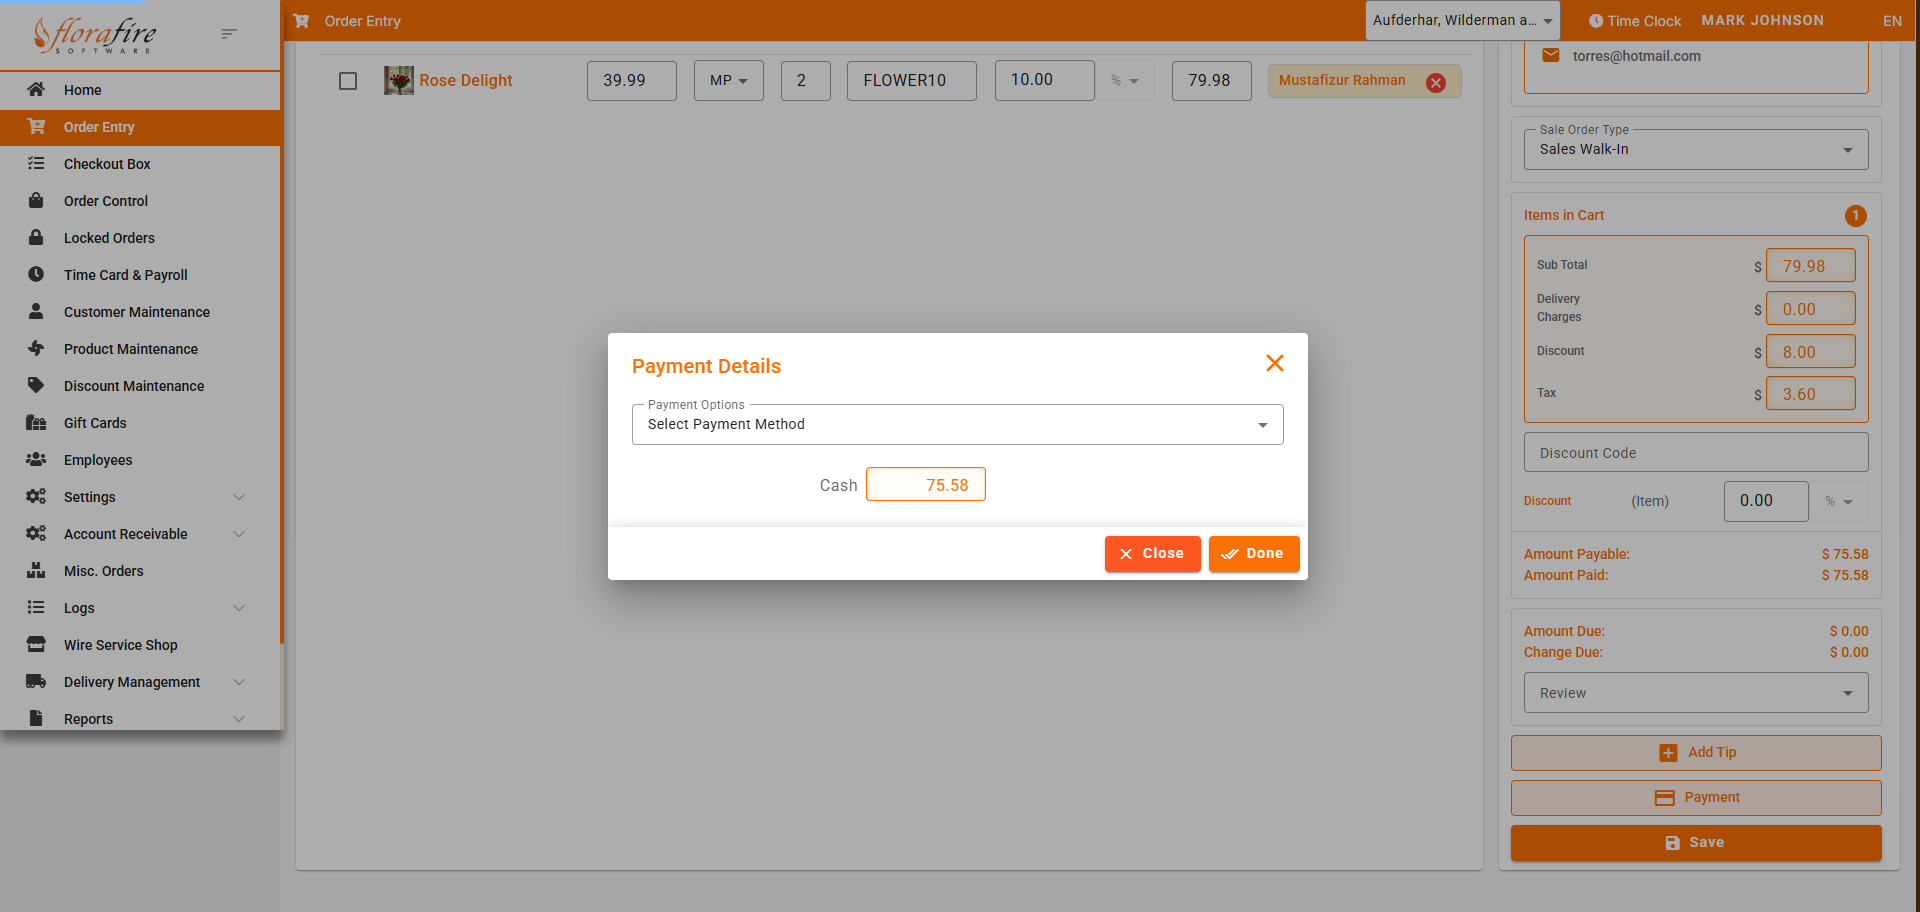
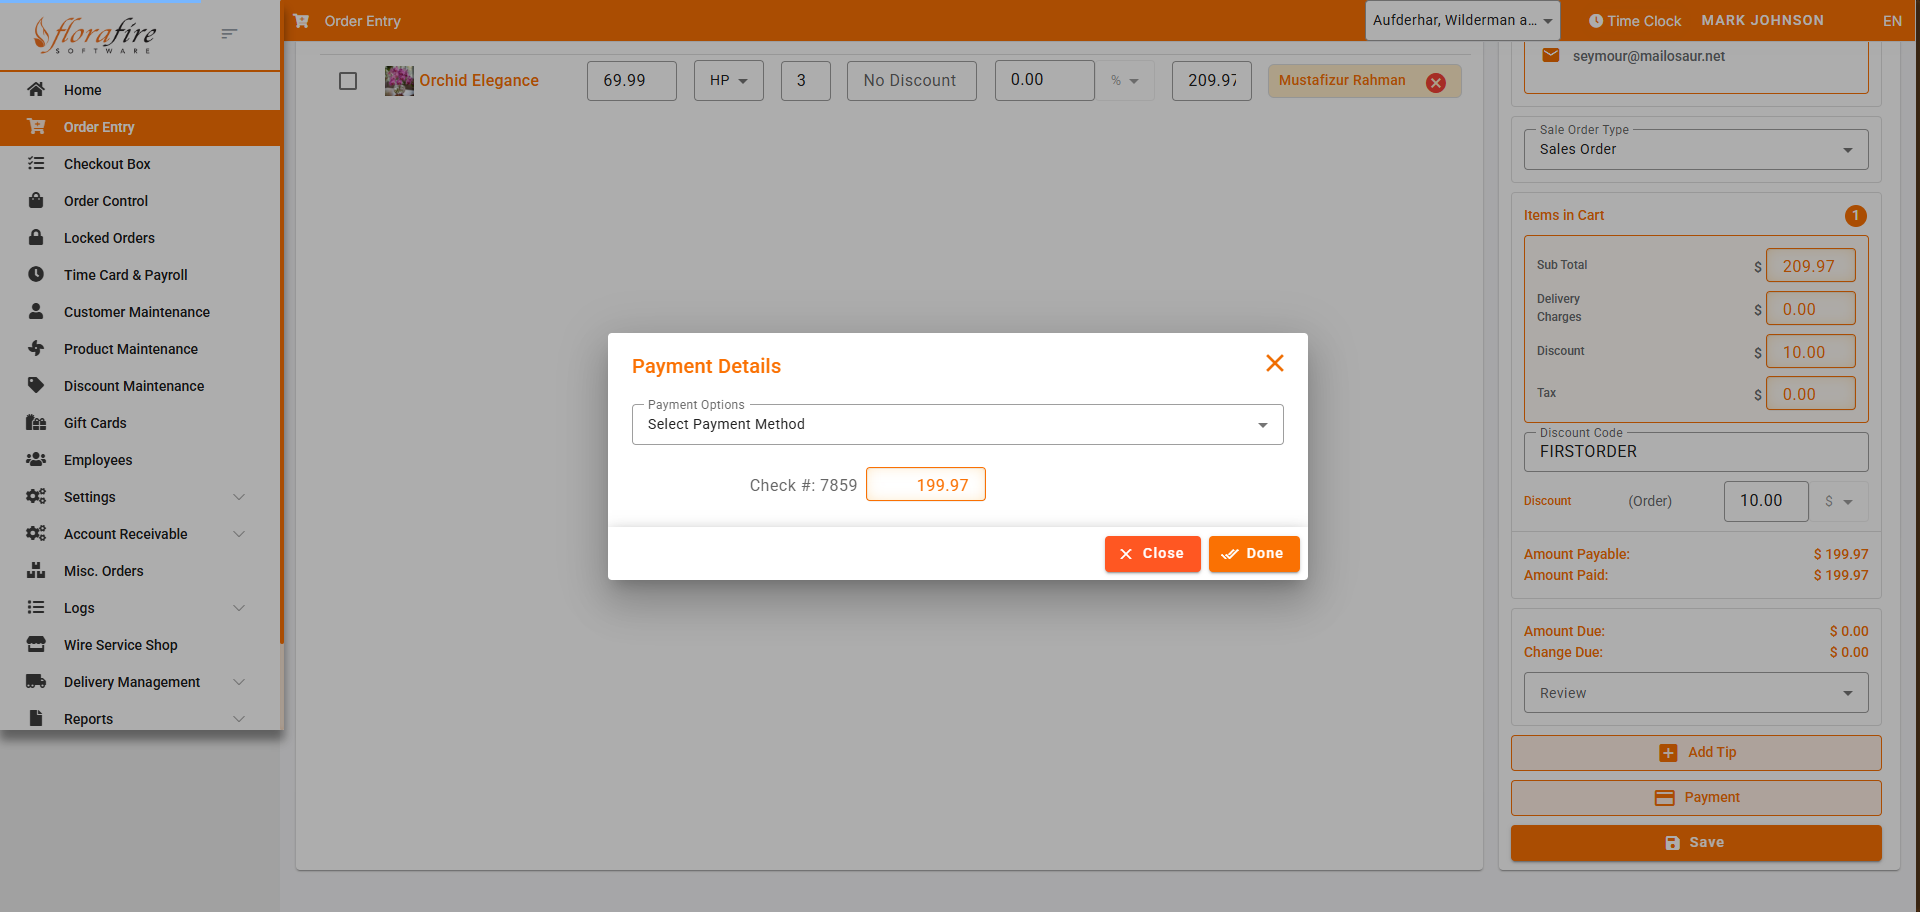
POS- Test Case 2 updated

diff --git a/src/test/java/tests/POS/Test_Case_2.java b/src/test/java/tests/POS/Test_Case_2.java
@@ -42,13 +42,18 @@ public class Test_Case_2 extends BaseClass {
     public void testCaseTwo() throws InterruptedException, IOException {
         List<String> types = Arrays.asList("HP", "BP", "MP");
         List<String> quantities = Arrays.asList("3", "4", "5");
-        String discount = "FIRSTORDER";
+        String discount = jsonData.getJSONObject("pos_tc2").getString("discount");
+
+        String productCode = jsonData.getJSONObject("pos_tc2").getString("product");
+        String orderType = jsonData.getJSONObject("pos_tc2").getString("orderType");
+        String flag = jsonData.getJSONObject("pos_tc2").getString("flag");
+        String paymentMethod = jsonData.getJSONObject("pos_tc2").getString("payment_method");
 
         SmallWait(1000);
 
         orderEntryPage.setZoom80Percent();
 
-        orderEntryPage.searchProductIcon("f005");
+        orderEntryPage.searchProductIcon(productCode);
 
         orderEntryPage.setPriceType(types);
         orderEntryPage.setProductQuantity(quantities);
@@ -56,9 +61,9 @@ public class Test_Case_2 extends BaseClass {
 
         orderEntryPage.addNewCustomer(getFullName(), getAddress(), getState(), getCity(), "54789", getPhone(), getEmail(), "Yes");
 
-        orderEntryPage.selectOrderType("Sales Order");
+        orderEntryPage.selectOrderType(orderType);
 
-        orderEntryPage.willCallDelivery("false", homePage.getStoreName());
+        orderEntryPage.willCallDelivery(flag, homePage.getStoreName());
 
         orderEntryPage.moneyboxData();
 
@@ -66,6 +71,6 @@ public class Test_Case_2 extends BaseClass {
 
         Scroll(0, 500);
 
-        orderEntryPage.makePayment("Check");
+        orderEntryPage.makePayment(paymentMethod);
     }
 }

diff --git a/src/main/java/pages/OrderEntry_Page.java b/src/main/java/pages/OrderEntry_Page.java
@@ -549,8 +549,10 @@ public class OrderEntry_Page extends BaseClass{
     public OrderEntry_Page clickCustomerSearchIcon(String... id) throws InterruptedException {
         SmallWait(1000);
 
-        WebElement searchField = driver.findElement(By.xpath("(//*[contains(@placeholder, 'Search Keyword')])[2]"));
-        searchField.sendKeys(id);
+        if (id.length > 0) {
+            WebElement searchField = driver.findElement(By.xpath("(//*[contains(@placeholder, 'Search Keyword')])[2]"));
+            searchField.sendKeys(id);
+        }
 
         click_Element_Js(searchCustomerIconField);
 
